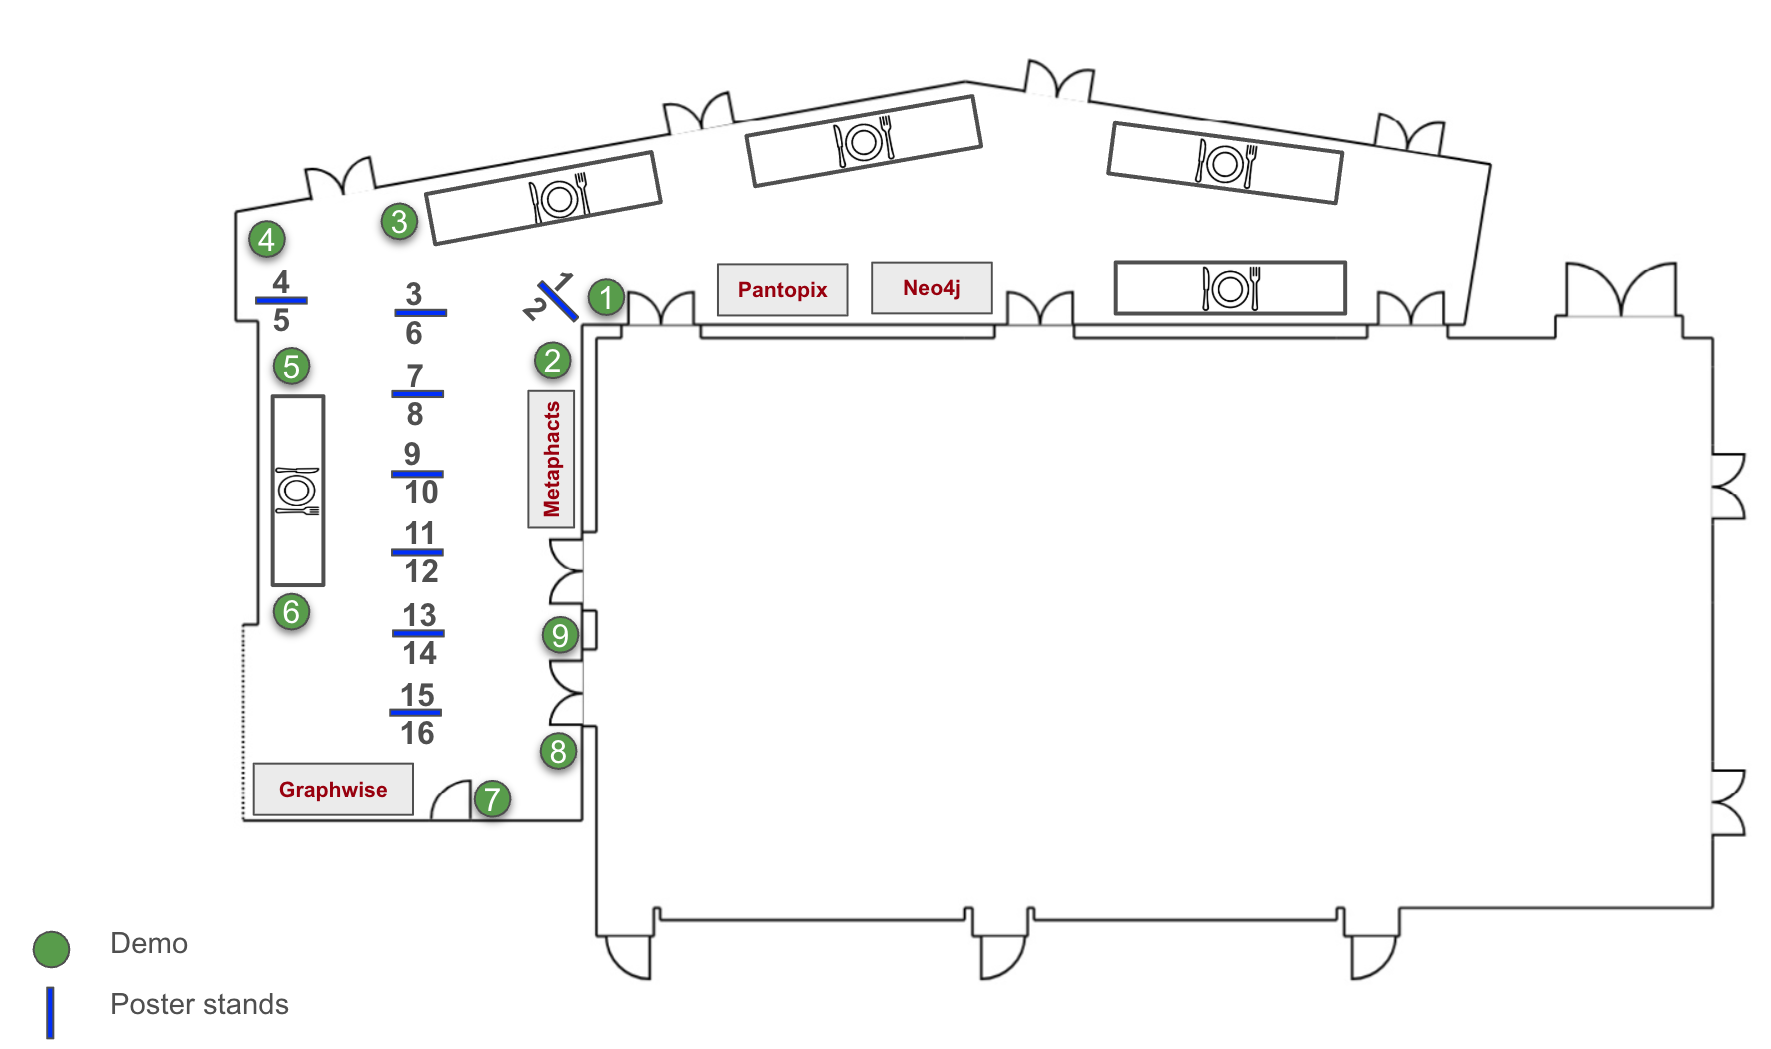
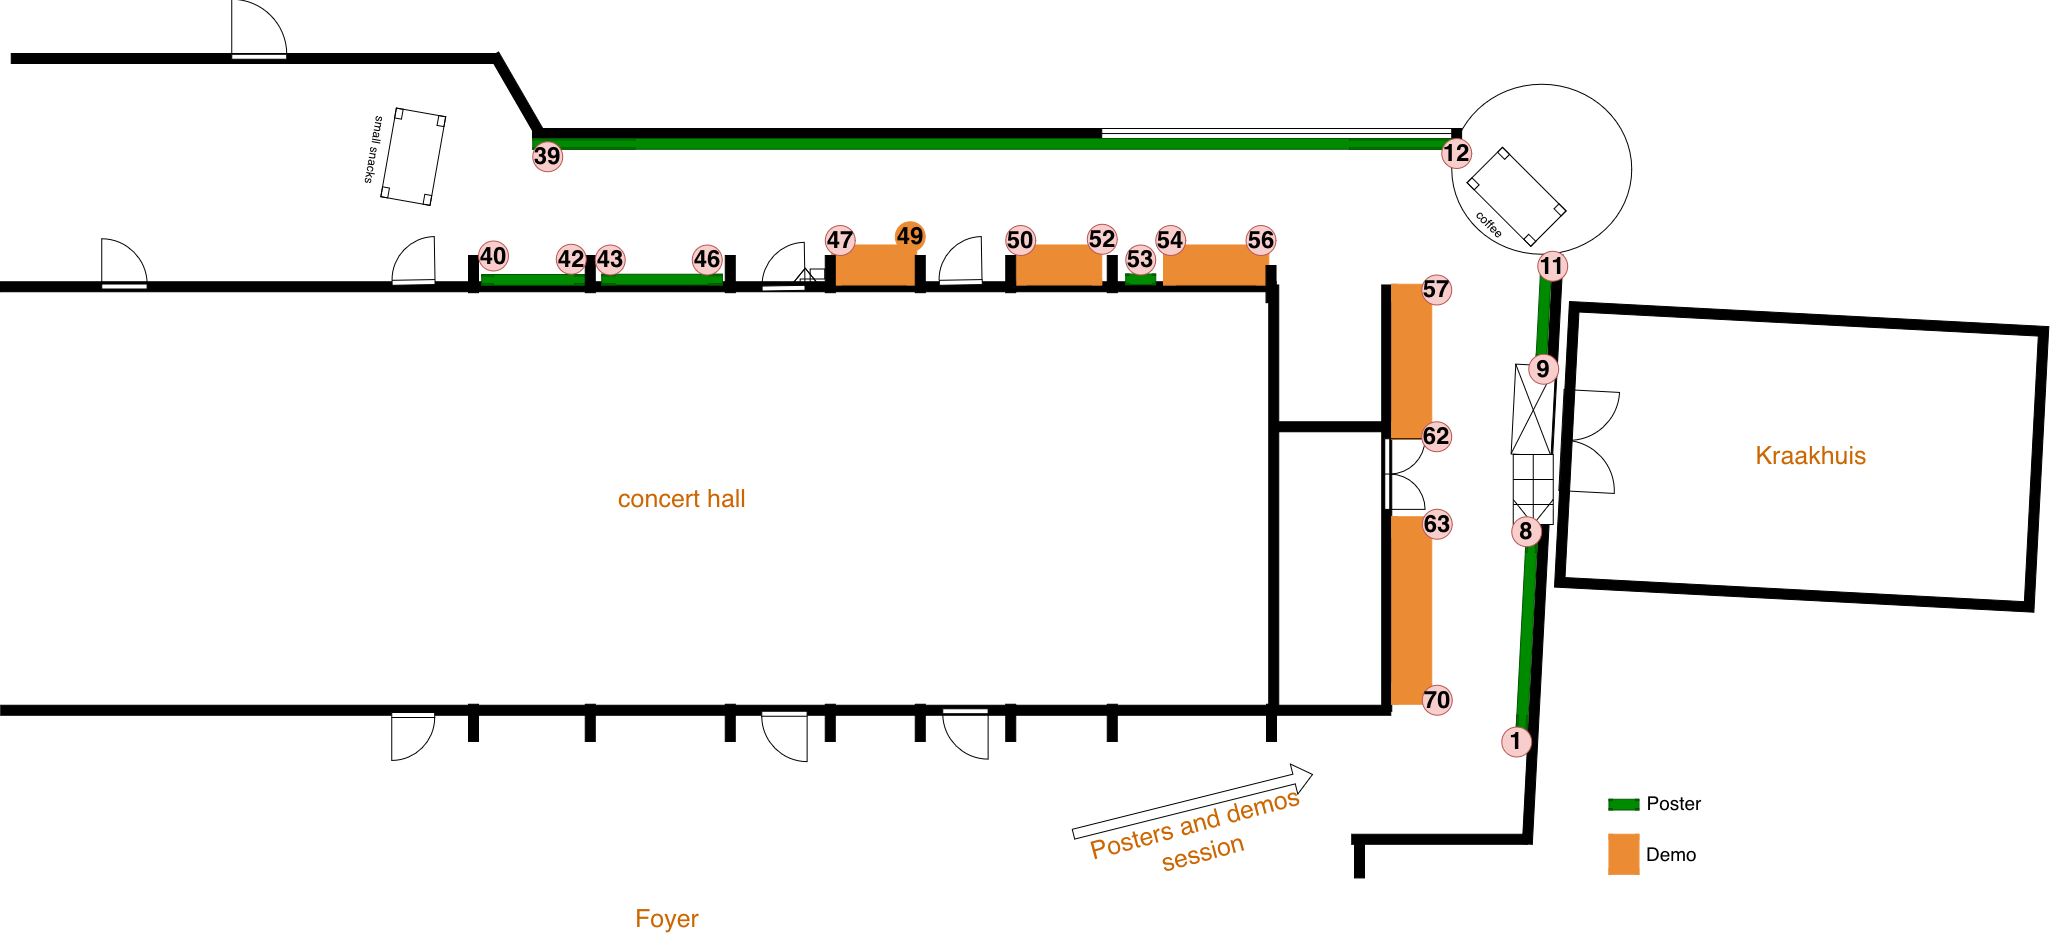
adding exhibition plan

diff --git a/page/p&d.html b/page/p&d.html
@@ -312,6 +312,15 @@
       <div class="container">
 
         <div class="row">
+				<div class="col-lg-12 mx-auto">
+					<h4>Exhibition and Demo Area Onsite</h4>
+				</div>
+				<div style="text-align: center;">
+					<img src="../img/posters/DemoAreaOnsite.png" width="100%" height="auto" alt="">
+				</div>
+			</div>
+
+        <div class="row">
 
           <div class="col-lg-12 mx-auto">
 
@@ -321,6 +330,8 @@
             <h1 class="text-left mb-4" style="font-weight: bold;">
               Accepted Posters and Demos
             </h1>
+
+
 
 
             <!-- P&D LIST -->
